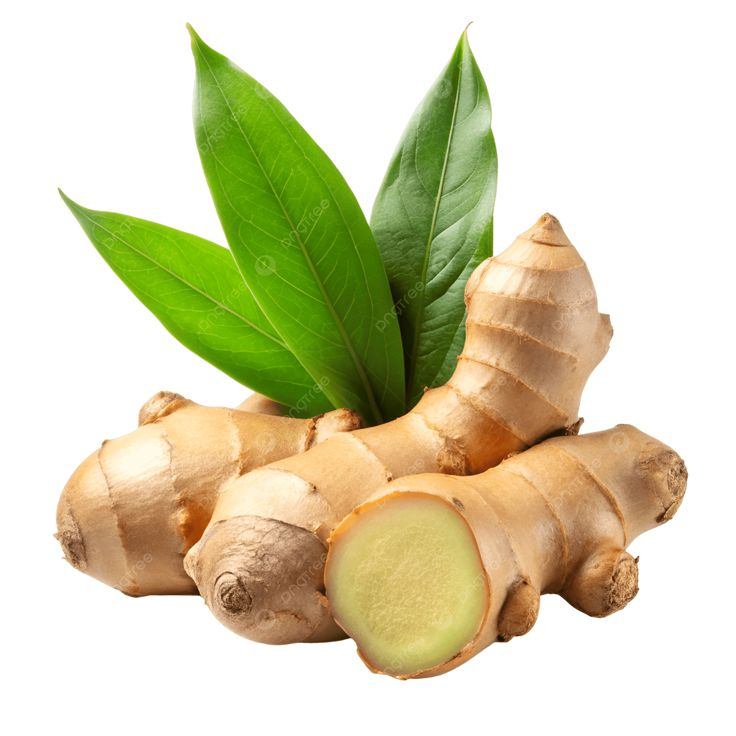
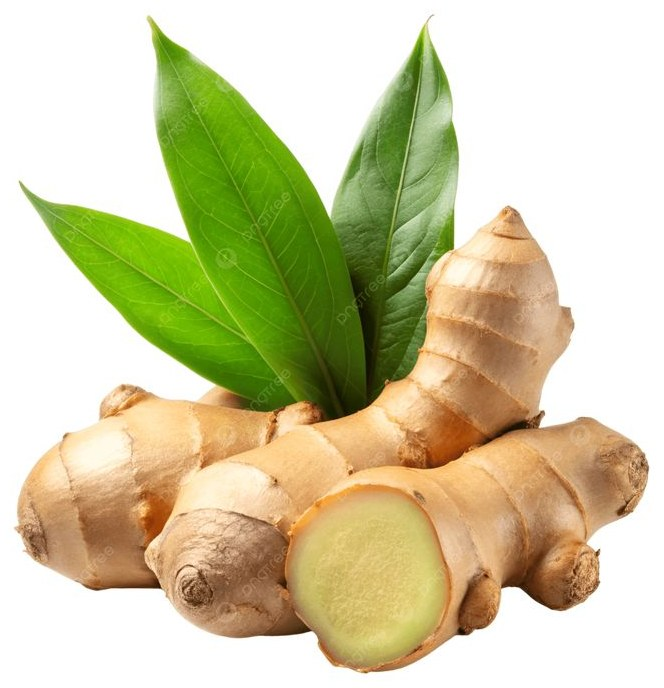
Crop ảnh thành phần cho to hơn trong thẻ, thu gọn khối 15 thảo dược
- Bụt Giấm, Gừng, Bồ Kết: crop bớt viền trắng thừa quanh chủ thể (đo
  bbox theo ngưỡng), giúp ảnh lấp đầy khung vuông trong thẻ thay vì
  chủ thể nhỏ, nhiều nền trắng xung quanh khi hiển thị
- Giảm padding trên/dưới khối "15 thảo dược Việt" từ 130px xuống 70px
  để đỡ trống trải, thẻ ảnh và mảng nền nâu cân đối hơn

diff --git a/index.html b/index.html
@@ -143,7 +143,7 @@
   </section>
 
   <!-- ============ INGREDIENTS (typographic) ============ -->
-  <section class="section ingredients">
+  <section class="section ingredients" style="padding:70px 0;">
     <div class="container ingredients__grid">
       <div class="ingredients__intro" data-reveal>
         <span class="eyebrow eyebrow--light">Tinh túy thảo dược</span>